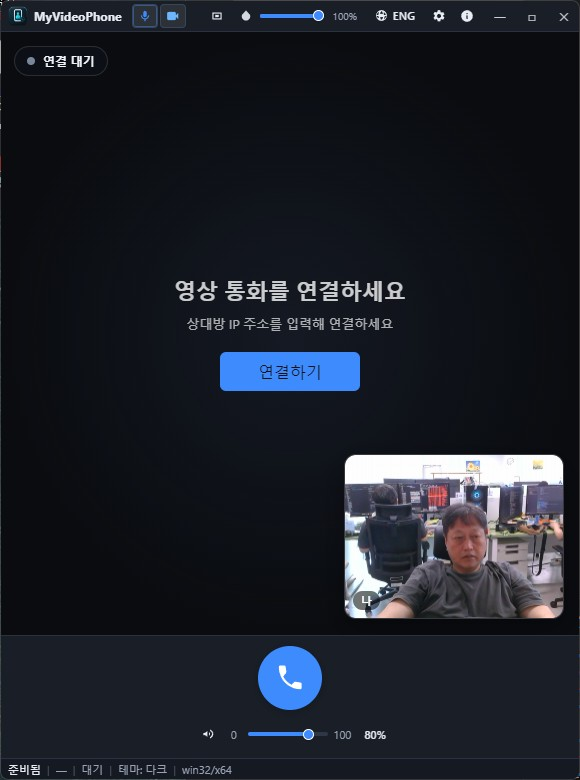
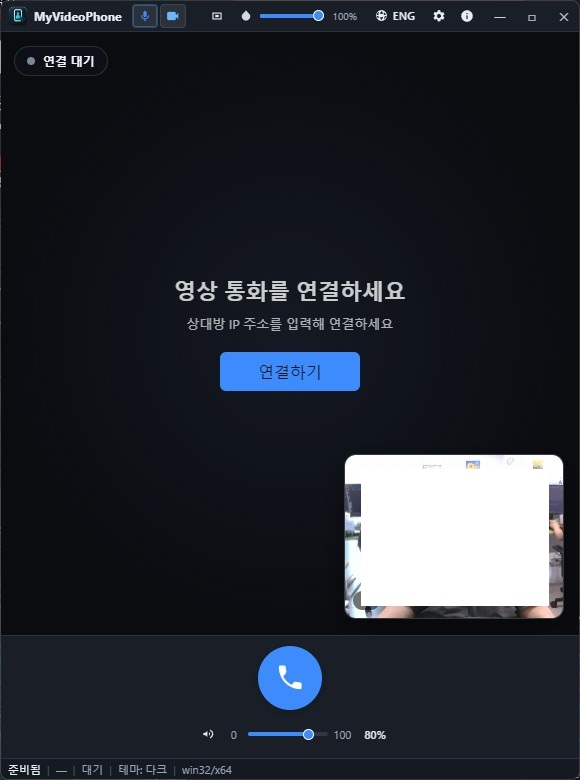
Add changes.

Changed region(s): [[0.6207, 0.5846, 0.9621, 0.8]]

diff --git a/MyVideoPhoneMultiOSV10/src/js/live-mse.js b/MyVideoPhoneMultiOSV10/src/js/live-mse.js
@@ -538,7 +538,10 @@ export function createLiveMsePlayer(getVideo, options = {}) {
       }
     })();
 
-    const timeout = sleep(8000).then(() => {
+    // Cold-start budget: peer may enumerate the camera device (~4s on Windows
+    // dshow) + warm it up + emit the first keyframe. 8s was too tight and timed
+    // out on the first call after launch; 15s covers a cold publisher start.
+    const timeout = sleep(15000).then(() => {
       if (!ready) throw new Error('Live stream start timeout');
     });
     await Promise.race([readyPromise, timeout]);

diff --git a/MyVideoPhoneMultiOSV10/electron/phone-stream.js b/MyVideoPhoneMultiOSV10/electron/phone-stream.js
@@ -947,6 +947,15 @@ async function startPhoneServer() {
     throw lastErr;
   }
 
+  // Warm the camera device resolution now (up to ~4s of dshow enumeration on
+  // Windows) so it is cached before the first /live call — keeps the cold-start
+  // publisher off the peer's start-timeout critical path.
+  if (publishEnabled) {
+    void resolveCameraInputArgs().catch(() => {
+      /* enumeration is best-effort; ensurePublisher will retry lazily */
+    });
+  }
+
   return {
     ok: true,
     port: listenPort,
